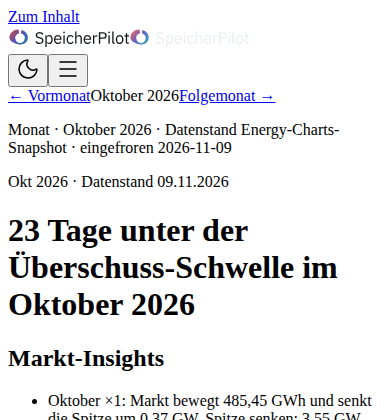
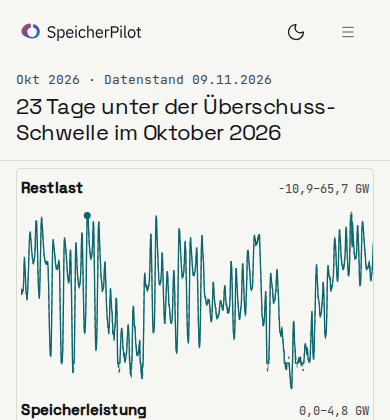
fix(paket3): styled Kontroll-Crops und Layout-Korrekturen PR81
Turbopack-CSS-Patch und Hydration-Wait im Abnahmeskript; Chart-Balken
und Referenzlabel; Monat DOM-Reihenfolge, eine Datenstand-Zeile, kurzer
Markt-Warnsatz; ÜNB-Titel mit Art. 50 Abs. 4a.

diff --git a/components/home/NationalFleetThreeGoalsCompare.tsx b/components/home/NationalFleetThreeGoalsCompare.tsx
@@ -13,15 +13,15 @@ import type { ThreeGoalsCompareModel } from "@/lib/nationalFleetThreeGoals";
 
 const STRATEGY_ORDER: NationalFleetStrategyUi[] = ["ueberschuss", "spitze", "markt"];
 
-const VIEW_W = 400;
+const VIEW_W = 440;
 const VIEW_H = 196;
 const PAD_L = 44;
-const PAD_R = 8;
+const PAD_R = 28;
 const PAD_T = 30;
 const PAD_B = 30;
-const BAR_W = 10;
-const BAR_GAP = 4;
-const GROUP_GAP = 14;
+const BAR_W = 9;
+const BAR_GAP = 5;
+const GROUP_GAP = 22;
 
 function fmtGw(gw: number): string {
   return formatQuantity(gw, "de", 2);
@@ -38,13 +38,15 @@ export function NationalFleetThreeGoalsCompare({
   monthKey,
   activeFactor,
   activeStrategy,
-  marktPeakFootnote,
+  marktPeakWarn,
+  marktPeakDetail,
 }: {
   model: ThreeGoalsCompareModel;
   monthKey: string;
   activeFactor: NationalFleetFactor;
   activeStrategy: NationalFleetStrategyUi;
-  marktPeakFootnote?: string | null;
+  marktPeakWarn?: string | null;
+  marktPeakDetail?: string | null;
 }) {
   const peakValues = model.rows.flatMap((r) => r.cells.map((c) => c.peakAfterGw));
   const chartMax = Math.max(model.refPeakGw, ...peakValues, 1) * 1.04;
@@ -77,7 +79,6 @@ export function NationalFleetThreeGoalsCompare({
         <h2 id="three-goals-title" className="v4-chapter-h2">
           Dieselbe Flotte, drei Fahrweisen — Spitze nach Speicher
         </h2>
-        <p className={`v4-subline ${styles.lead}`}>Oktober · Flotte 4,58 GW / 8 GWh · ×1</p>
       </div>
 
       <figure className={`v4-content ${styles.figure}`}>
@@ -106,10 +107,16 @@ export function NationalFleetThreeGoalsCompare({
             <text x={PAD_L - 6} y={PAD_T - 10} className={styles.yUnit} textAnchor="end">
               GW
             </text>
+            <defs>
+              <clipPath id="three-goals-plot-clip">
+                <rect x={PAD_L} y={PAD_T} width={plotW} height={plotH} />
+              </clipPath>
+            </defs>
             <line x1={PAD_L} y1={refY} x2={VIEW_W - PAD_R} y2={refY} className={styles.refLine} />
-            <text x={PAD_L + 4} y={refY - 6} className={styles.refLabel}>
-              Referenz {fmtGw(model.refPeakGw)}
+            <text x={PAD_L + 2} y={PAD_T + 12} className={styles.refLabel} textAnchor="start">
+              Ref. {fmtGw(model.refPeakGw)} GW
             </text>
+            <g clipPath="url(#three-goals-plot-clip)">
             {NATIONAL_FLEET_FACTORS.map((factor, gi) => {
               const gx = groupStartX + gi * (groupInnerW + GROUP_GAP);
               return (
@@ -127,28 +134,30 @@ export function NationalFleetThreeGoalsCompare({
                     const isActiveStrategy = strategy === activeStrategy;
                     const isActiveCell = factor === activeFactor && strategy === activeStrategy;
                     return (
-                      <a
-                        key={strategy}
-                        href={href}
-                        className={styles.barLink}
-                        aria-label={`${NATIONAL_FLEET_STRATEGY_UI[strategy].shortDe}, ×${factor}, ${fmtGw(cell.peakAfterGw)} GW`}
-                      >
-                        <rect
-                          x={bx}
-                          y={top}
-                          width={BAR_W}
-                          height={Math.max(2, h)}
-                          className={`${styles.bar} ${isActiveStrategy ? styles.barAccent : styles.barMuted}${
-                            isActiveCell ? ` ${styles.barActive}` : ""
-                          }`}
-                          rx={2}
-                        />
-                      </a>
+                      <g key={strategy} transform={`translate(${bx}, 0)`}>
+                        <a
+                          href={href}
+                          className={styles.barLink}
+                          aria-label={`${NATIONAL_FLEET_STRATEGY_UI[strategy].shortDe}, ×${factor}, ${fmtGw(cell.peakAfterGw)} GW`}
+                        >
+                          <rect
+                            x={0}
+                            y={top}
+                            width={BAR_W}
+                            height={Math.max(2, h)}
+                            className={`${styles.bar} ${isActiveStrategy ? styles.barAccent : styles.barMuted}${
+                              isActiveCell ? ` ${styles.barActive}` : ""
+                            }`}
+                            rx={2}
+                          />
+                        </a>
+                      </g>
                     );
                   })}
                 </g>
               );
             })}
+            </g>
           </svg>
         </div>
         <figcaption className={styles.caption}>
@@ -188,9 +197,10 @@ export function NationalFleetThreeGoalsCompare({
               Methodik
             </Link>
           </p>
-          {marktPeakFootnote ? (
-            <p className={`v4-footnote muted ${styles.warnNote}`}>{marktPeakFootnote}</p>
+          {marktPeakWarn ? (
+            <p className={`v4-footnote muted ${styles.warnNote}`}>{marktPeakWarn}</p>
           ) : null}
+          {marktPeakDetail ? <p className="sr-only">{marktPeakDetail}</p> : null}
         </figcaption>
         <table className={`${styles.table} num sr-only`}>
           <caption>Spitze nach Speicher (GW) und Ladung (GWh)</caption>

diff --git a/lib/buildProvenance.generated.ts b/lib/buildProvenance.generated.ts
@@ -1,2 +1,2 @@
 /** Auto-generated by scripts/generate-build-provenance.mjs — do not edit */
-export const BUILD_PROVENANCE = {"commit":"d9a4854330f37a865a3b4e7d8ecda46e9638c256","buildId":"20261109T2238Z","builtAt":"2026-11-09T22:38:21.059Z","node":"v22.23.4","dirty":true,"dirtyPaths":["M app/globals.css"," M app/methodik/page.tsx"," M app/monat/[monat]/page.tsx"," M components/home/LueckeChart.tsx"," M components/home/MonatPageV4.tsx"," M components/home/NationalFleetMonatSlot.tsx"," M components/home/NationalFleetMonthChapter.tsx"," M components/home/NationalFleetThreeGoalsCompare.module.css"," M components/home/NationalFleetThreeGoalsCompare.tsx"," M components/home/PreisFenster.tsx"," M components/methodik/MethodikInsights.tsx"," M components/site/OrtUnbHinweis.tsx"," M lib/marktInsights.test.ts"," M lib/marktInsights.ts"," M lib/nationalFleetThreeGoals.test.ts"," M lib/nationalFleetThreeGoals.ts"," M lib/netzbetreiberNamen.test.ts"," M scripts/paket3-abnahme.mjs","?? components/home/MonatMarktInsightsDl.tsx","?? components/methodik/MethodikNetzKapazitaet.tsx"],"ci":false} as const;
+export const BUILD_PROVENANCE = {"commit":"ca40cf0886a033664a0395648ad11a045528f17f","buildId":"20261109T2245Z","builtAt":"2026-11-09T22:45:41.911Z","node":"v22.23.4","dirty":true,"dirtyPaths":["M app/globals.css"," M components/home/MonatPageV4.tsx"," M components/home/NationalFleetMonatSlot.tsx"," M components/home/NationalFleetMonthChapter.tsx"," M components/home/NationalFleetThreeGoalsCompare.module.css"," M components/home/NationalFleetThreeGoalsCompare.test.tsx"," M components/home/NationalFleetThreeGoalsCompare.tsx"," M components/site/OrtUnbHinweis.tsx"," M docs/audit-2026-11/paket3/screens/kontrolle/monat-2026-10-1440-dark-drei-ziele.png"," M docs/audit-2026-11/paket3/screens/kontrolle/monat-2026-10-390-light-erstes-fenster.png"," M docs/audit-2026-11/paket3/screens/kontrolle/ort-390-light-unb-hinweis.png"," M lib/nationalFleetThreeGoals.test.ts"," M lib/nationalFleetThreeGoals.ts"," M scripts/paket3-abnahme.mjs"],"ci":false} as const;

diff --git a/components/home/NationalFleetMonatSlot.tsx b/components/home/NationalFleetMonatSlot.tsx
@@ -6,6 +6,7 @@ import type { MonatSurplusBar } from "@/lib/monatSurplusBars";
 import {
   buildThreeGoalsCompare,
   formatMarktPeakFootnote,
+  formatMarktPeakWarnShort,
   marktPeakFootnoteFromRun,
 } from "@/lib/nationalFleetThreeGoals";
 import {
@@ -53,20 +54,21 @@ export function NationalFleetMonatSlot({
   const factorRows = factorCompareRowsForStrategy(bundle, strategy);
 
   const compareModel = buildThreeGoalsCompare(loadNationalFleetBundleMeta() as never);
-  let marktPeakFootnote: string | null = null;
+  let marktPeakWarn: string | null = null;
+  let marktPeakDetail: string | null = null;
   if (compareModel.marktX10PeakTs) {
     const marktRun = loadNationalFleetRunSeries(10, "markt");
     const idx = marktRun.timestamp_berlin.indexOf(compareModel.marktX10PeakTs);
     if (idx >= 0) {
-      marktPeakFootnote = formatMarktPeakFootnote(
-        marktPeakFootnoteFromRun(
-          compareModel.marktX10PeakTs,
-          marktRun.r_mw[idx],
-          marktRun.r_prime_mw[idx],
-          marktRun.c_mw[idx],
-          marktRun.day_ahead_eur_mwh[idx],
-        ),
+      const detail = marktPeakFootnoteFromRun(
+        compareModel.marktX10PeakTs,
+        marktRun.r_mw[idx],
+        marktRun.r_prime_mw[idx],
+        marktRun.c_mw[idx],
+        marktRun.day_ahead_eur_mwh[idx],
       );
+      marktPeakWarn = formatMarktPeakWarnShort(detail);
+      marktPeakDetail = formatMarktPeakFootnote(detail);
     }
   }
 
@@ -92,7 +94,8 @@ export function NationalFleetMonatSlot({
           monthKey={monthKey}
           activeFactor={factor}
           activeStrategy={strategy}
-          marktPeakFootnote={marktPeakFootnote}
+          marktPeakWarn={marktPeakWarn}
+          marktPeakDetail={marktPeakDetail}
         />
       </div>
     </>

diff --git a/lib/nationalFleetThreeGoals.ts b/lib/nationalFleetThreeGoals.ts
@@ -94,14 +94,20 @@ export function marktPeakFootnoteFromRun(
 }
 
 function formatPeakInstantBerlin(ts: string): string {
-  const match = ts.match(/^(\d{4})-(\d{2})-(\d{2})T(\d{2}):(\d{2})/);
+  const match = ts.match(/^(\d{4})-(\d{2})-(\d{2})[T ](\d{2}):(\d{2})/);
   if (!match) {
     return ts;
   }
-  return `${Number(match[3])}.${Number(match[2])}.${match[1]}, ${match[4]}:${match[5]} Uhr`;
+  return `${Number(match[3])}.${Number(match[2])}.${match[1]}, ${match[4]}:${match[5]}`;
+}
+
+/** Eine Zeile unter dem Chart — Detail in Tabelle/Fußnote. */
+export function formatMarktPeakWarnShort(d: MarktPeakFootnoteDetail): string {
+  const when = formatPeakInstantBerlin(d.timestampBerlin);
+  return `Markt ×10: Spitze ${formatQuantity(d.peakAfterGw, "de", 2)} GW am ${when} Uhr — Preise historisch, kein Rückwirkungsmodell.`;
 }
 
 export function formatMarktPeakFootnote(d: MarktPeakFootnoteDetail): string {
   const when = formatPeakInstantBerlin(d.timestampBerlin);
-  return `Marktorientiert ×10 hebt die Monats-Restlastspitze auf ${formatQuantity(d.peakAfterGw, "de", 2)} GW (${when}: ${formatQuantity(d.residualGw, "de", 2)} GW Restlast + ${formatQuantity(d.chargeGw, "de", 1)} GW Laden bei ${formatQuantity(d.priceEurMwh, "de", 2)} €/MWh). Kein Preisrückwirkungsmodell — die Preise bleiben historisch.`;
+  return `${when} Uhr: ${formatQuantity(d.residualGw, "de", 2)} GW Restlast + ${formatQuantity(d.chargeGw, "de", 1)} GW Laden bei ${formatQuantity(d.priceEurMwh, "de", 2)} €/MWh.`;
 }

diff --git a/components/home/MonatPageV4.tsx b/components/home/MonatPageV4.tsx
@@ -89,12 +89,20 @@ export function MonatPageV4({
       <MonatNav monthKey={monthKey} records={records} />
       <section className="v4-kopf" aria-labelledby="monat-h1">
         <div className="v4-kopf-inner v4-content">
-          <p className="v4-kicker num v4-kicker-long">
-            Monat · {formatBerlinMonthLabel(monthKey)} · Datenstand {dataStand}
-          </p>
-          <p className="v4-kicker num v4-kicker-short">
-            {formatBerlinMonthShort(monthKey)} · Datenstand {standDay}
-          </p>
+          {fleetOnPage ? (
+            <p className="v4-kicker num v4-kicker-short v4-monat-kicker-single">
+              {formatBerlinMonthShort(monthKey)} · Datenstand {standDay}
+            </p>
+          ) : (
+            <>
+              <p className="v4-kicker num v4-kicker-long">
+                Monat · {formatBerlinMonthLabel(monthKey)} · Datenstand {dataStand}
+              </p>
+              <p className="v4-kicker num v4-kicker-short">
+                {formatBerlinMonthShort(monthKey)} · Datenstand {standDay}
+              </p>
+            </>
+          )}
           <h1 id="monat-h1" className="v4-h1">
             {h1}
           </h1>

diff --git a/components/home/NationalFleetMonthChapter.tsx b/components/home/NationalFleetMonthChapter.tsx
@@ -145,6 +145,16 @@ export function NationalFleetMonthChapter({
         </h2>
       </div>
 
+      <NationalFleetTimeSeriesChart
+        monthKey={monthKey}
+        factor={factor}
+        strategy={strategy}
+        peakReductionGw={stats.peakReductionGw}
+        peakReductionPct={stats.peakReductionPct}
+        prominentMonth
+      />
+      {insightsFooter}
+
       <div className="v4-content v4-fleet-controls" role="group" aria-label="Szenario wählen">
         <fieldset className="v4-fleet-fieldset">
           <legend className="v4-fleet-legend">{FLEET_SIZE_LEGEND}</legend>
@@ -204,16 +214,6 @@ export function NationalFleetMonthChapter({
           <dd>{formatGw(stats.dischargeGwh, 2)} GWh</dd>
         </div>
       </dl>
-
-      <NationalFleetTimeSeriesChart
-        monthKey={monthKey}
-        factor={factor}
-        strategy={strategy}
-        peakReductionGw={stats.peakReductionGw}
-        peakReductionPct={stats.peakReductionPct}
-        prominentMonth
-      />
-      {insightsFooter}
       <FleetMonthFootnotes
         factor={factor}
         monthKey={monthKey}

diff --git a/lib/nationalFleetThreeGoals.test.ts b/lib/nationalFleetThreeGoals.test.ts
@@ -1,4 +1,9 @@
-import { buildThreeGoalsCompare, formatMarktPeakFootnote, marktPeakFootnoteFromRun } from "@/lib/nationalFleetThreeGoals";
+import {
+  buildThreeGoalsCompare,
+  formatMarktPeakFootnote,
+  formatMarktPeakWarnShort,
+  marktPeakFootnoteFromRun,
+} from "@/lib/nationalFleetThreeGoals";
 import { loadNationalFleetBundleMeta } from "@/lib/nationalMonthFleetModel.server";
 
 describe("buildThreeGoalsCompare", () => {
@@ -27,8 +32,10 @@ describe("marktPeakFootnoteFromRun", () => {
   it("formats 21.10. peak", () => {
     const d = marktPeakFootnoteFromRun("2026-10-21T14:00:00+02:00", 50960.5, 96760.5, 45800, 201.29);
     expect(d.peakAfterGw).toBeCloseTo(96.76, 2);
-    expect(formatMarktPeakFootnote(d)).toContain("96,76 GW");
+    expect(formatMarktPeakWarnShort(d)).toContain("96,76 GW");
     expect(formatMarktPeakFootnote(d)).toContain("201,29");
     expect(formatMarktPeakFootnote(d)).toMatch(/21\.10\.2026/);
+    expect(formatMarktPeakWarnShort(d)).toMatch(/21\.10\.2026, 14:00/);
+    expect(formatMarktPeakWarnShort(d)).not.toMatch(/2026-10-21T/);
   });
 });

diff --git a/app/globals.css b/app/globals.css
@@ -10259,6 +10259,9 @@ html:not(.dark) .ort-v4-page .site-quiet {
 .monat-page .v4-kicker-short {
   display: none;
 }
+.monat-page .v4-monat-kicker-single {
+  display: block;
+}
 @media (min-width: 768px) {
   .monat-page .v4-h1 {
     font-size: 36px;
@@ -10285,6 +10288,25 @@ html:not(.dark) .ort-v4-page .site-quiet {
   .monat-page .v4-fleet-kpi-label-short,
   .monat-page .v4-month-mobile-note {
     display: none;
+  }
+  .monat-page .v4-fleet-month {
+    display: flex;
+    flex-direction: column;
+  }
+  .monat-page .v4-fleet-month > .v4-chapter-head {
+    order: 0;
+  }
+  .monat-page .v4-fleet-month > .v4-fleet-controls {
+    order: 1;
+  }
+  .monat-page .v4-fleet-month > .v4-fleet-kpis-hero {
+    order: 2;
+  }
+  .monat-page .v4-fleet-month > .v4-fleet-ts-slot {
+    order: 3;
+  }
+  .monat-page .v4-fleet-month > .v4-monat-insights-dl {
+    order: 4;
   }
   .monat-page .v4-fleet-ts-slot.is-month-prominent,
   .monat-page .v4-fleet-ts-slot.is-month-prominent .v4-fleet-ts-wrap.is-month-prominent {

diff --git a/components/site/OrtUnbHinweis.tsx b/components/site/OrtUnbHinweis.tsx
@@ -4,12 +4,11 @@ export function OrtUnbHinweis() {
   return (
     <aside className="v4-content v4-ort-unb-hinweis" aria-labelledby="ort-unb-title" data-testid="ort-unb-hinweis">
       <h2 id="ort-unb-title" className="v4-chapter-h2 v4-ort-unb-title">
-        Freie Anschlusskapazität — was öffentlich ist
+        Freie Anschlusskapazität (Art.&nbsp;50 Abs.&nbsp;4a VO&nbsp;2019/943)
       </h2>
       <p className="v4-subline">
-        ÜNB veröffentlichen nach Art. 50 Abs. 4a der VO (EU) 2019/943 (i. d. F. VO (EU) 2024/1747) mindestens monatlich
-        verfügbare Kapazität in MW-Klassen — nicht bis zur Mittelspannung. SpeicherPilot baut keine Deutschlandkarte und
-        erfindet keine Punktwerte.
+        ÜNB veröffentlichen danach mindestens monatlich verfügbare Kapazität in MW-Klassen — nicht bis zur
+        Mittelspannung. SpeicherPilot baut keine Deutschlandkarte und erfindet keine Punktwerte.
       </p>
       <ul className="v4-ort-unb-links num">
         <li>

diff --git a/components/home/NationalFleetThreeGoalsCompare.test.tsx b/components/home/NationalFleetThreeGoalsCompare.test.tsx
@@ -13,11 +13,12 @@ describe("NationalFleetThreeGoalsCompare", () => {
         monthKey="2026-10"
         activeFactor={1}
         activeStrategy="ueberschuss"
-        marktPeakFootnote="Test-Fußnote."
+        marktPeakWarn="Test-Warnzeile."
+        marktPeakDetail="Test-Detail."
       />,
     );
     expect(screen.getByTestId("three-goals-compare")).toBeInTheDocument();
-    expect(screen.getByText(/Test-Fußnote/)).toBeInTheDocument();
+    expect(screen.getByText(/Test-Warnzeile/)).toBeInTheDocument();
     expect(screen.getByRole("heading", { name: /Dieselbe Flotte, drei Fahrweisen/ })).toBeInTheDocument();
   });
 });

diff --git a/components/home/NationalFleetThreeGoalsCompare.module.css b/components/home/NationalFleetThreeGoalsCompare.module.css
@@ -45,6 +45,9 @@
 
 .refLabel {
   fill: var(--v4-muted);
+  paint-order: stroke fill;
+  stroke: hsl(var(--background));
+  stroke-width: 4px;
 }
 
 .barLink {
